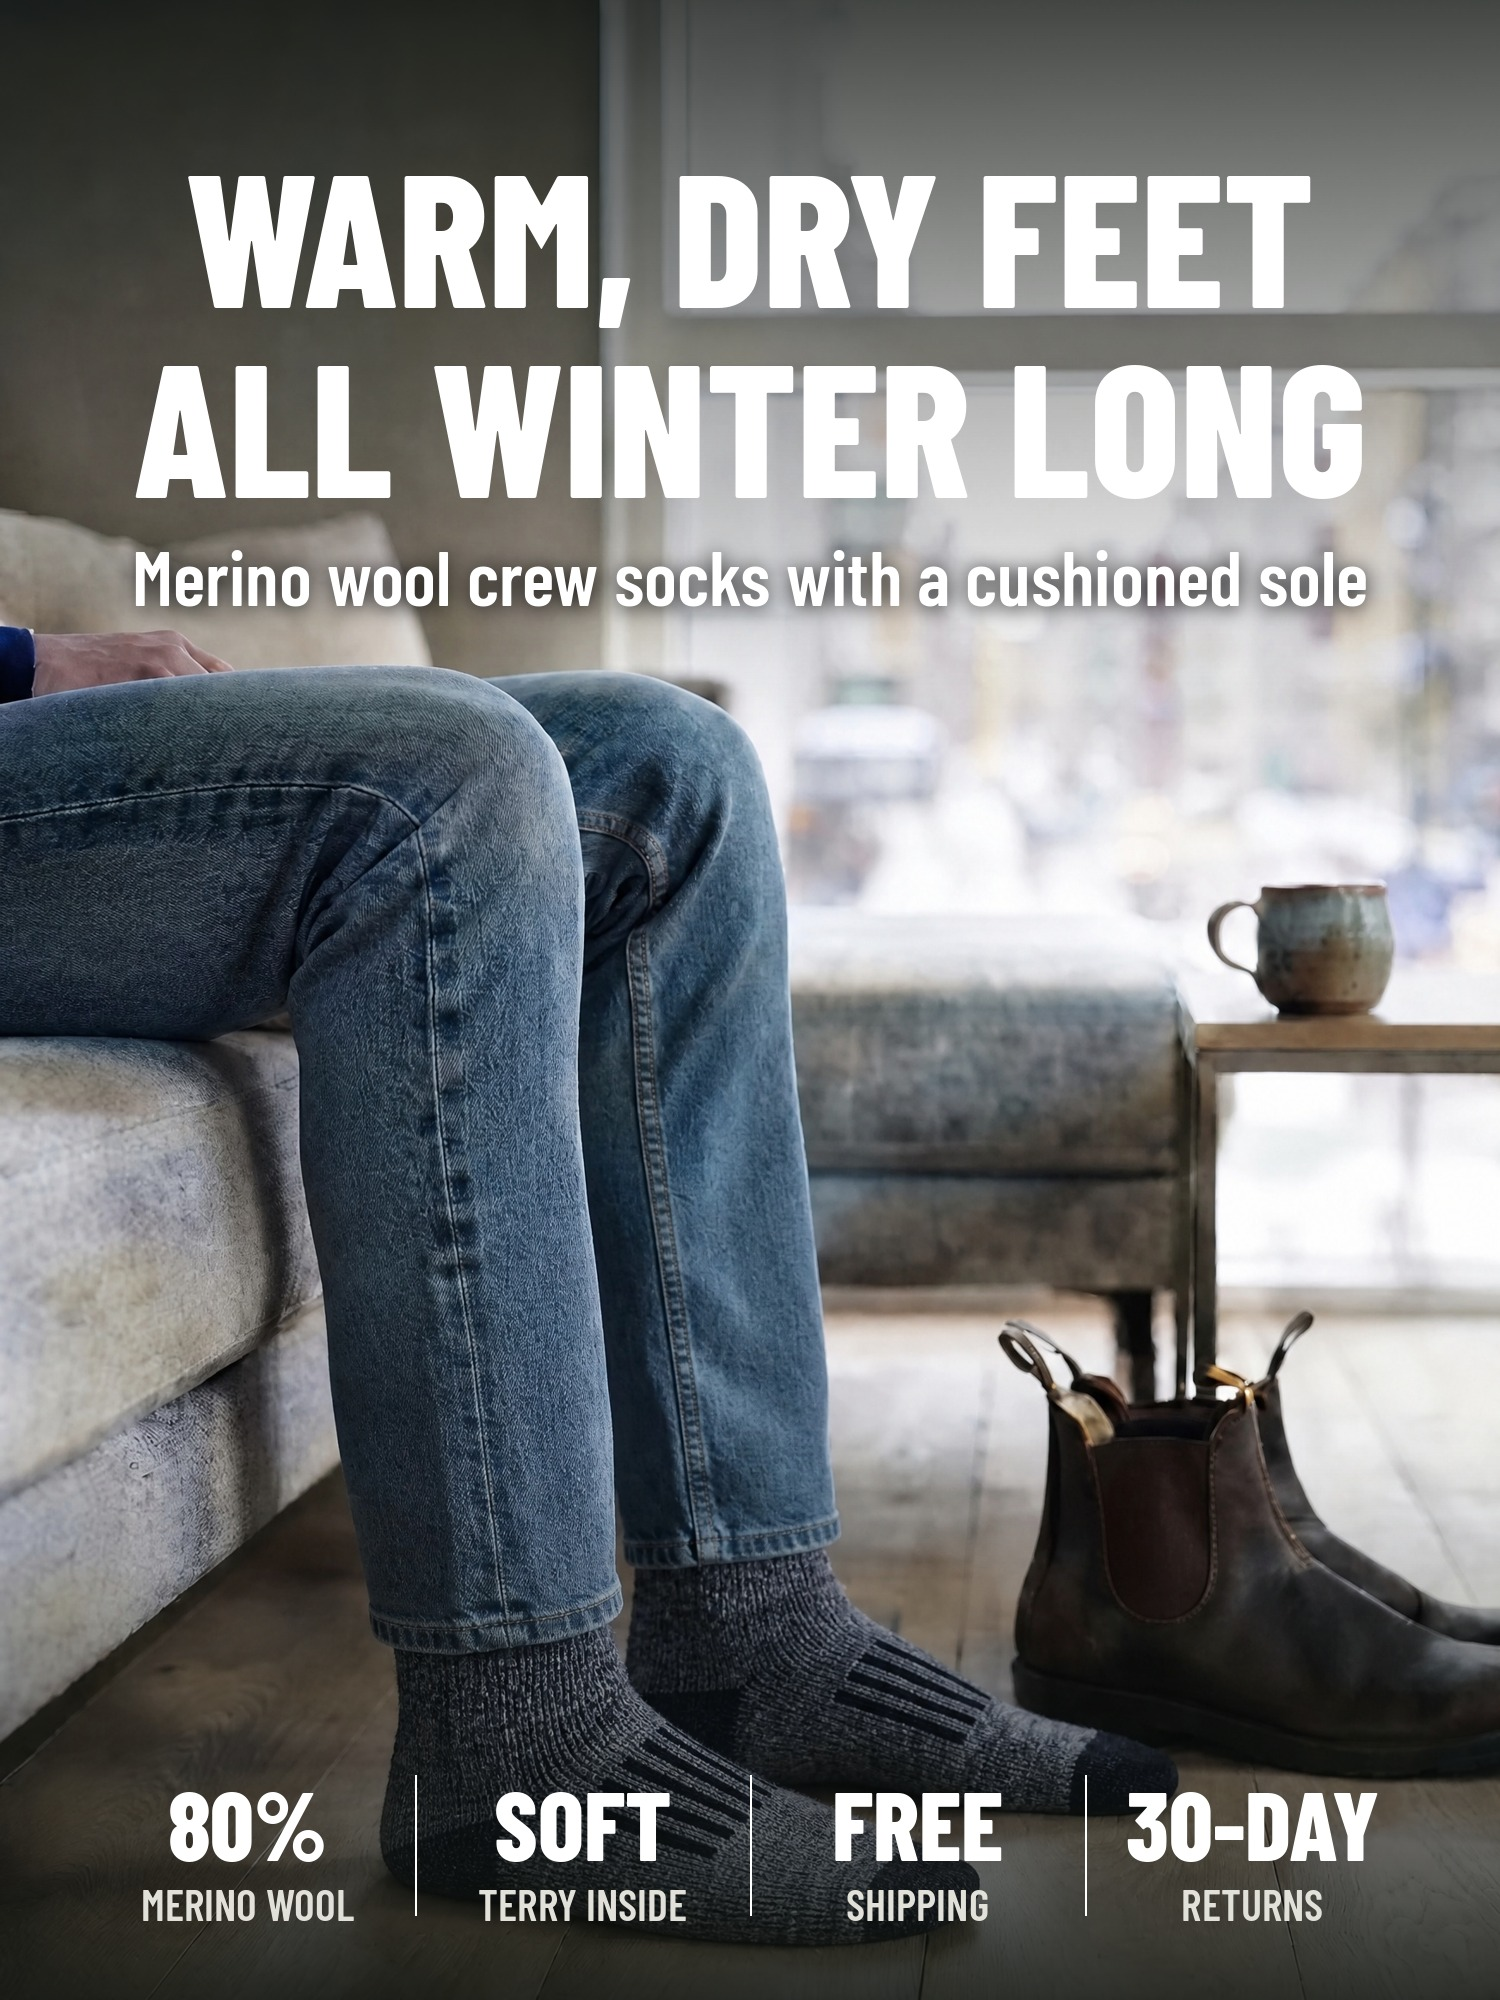
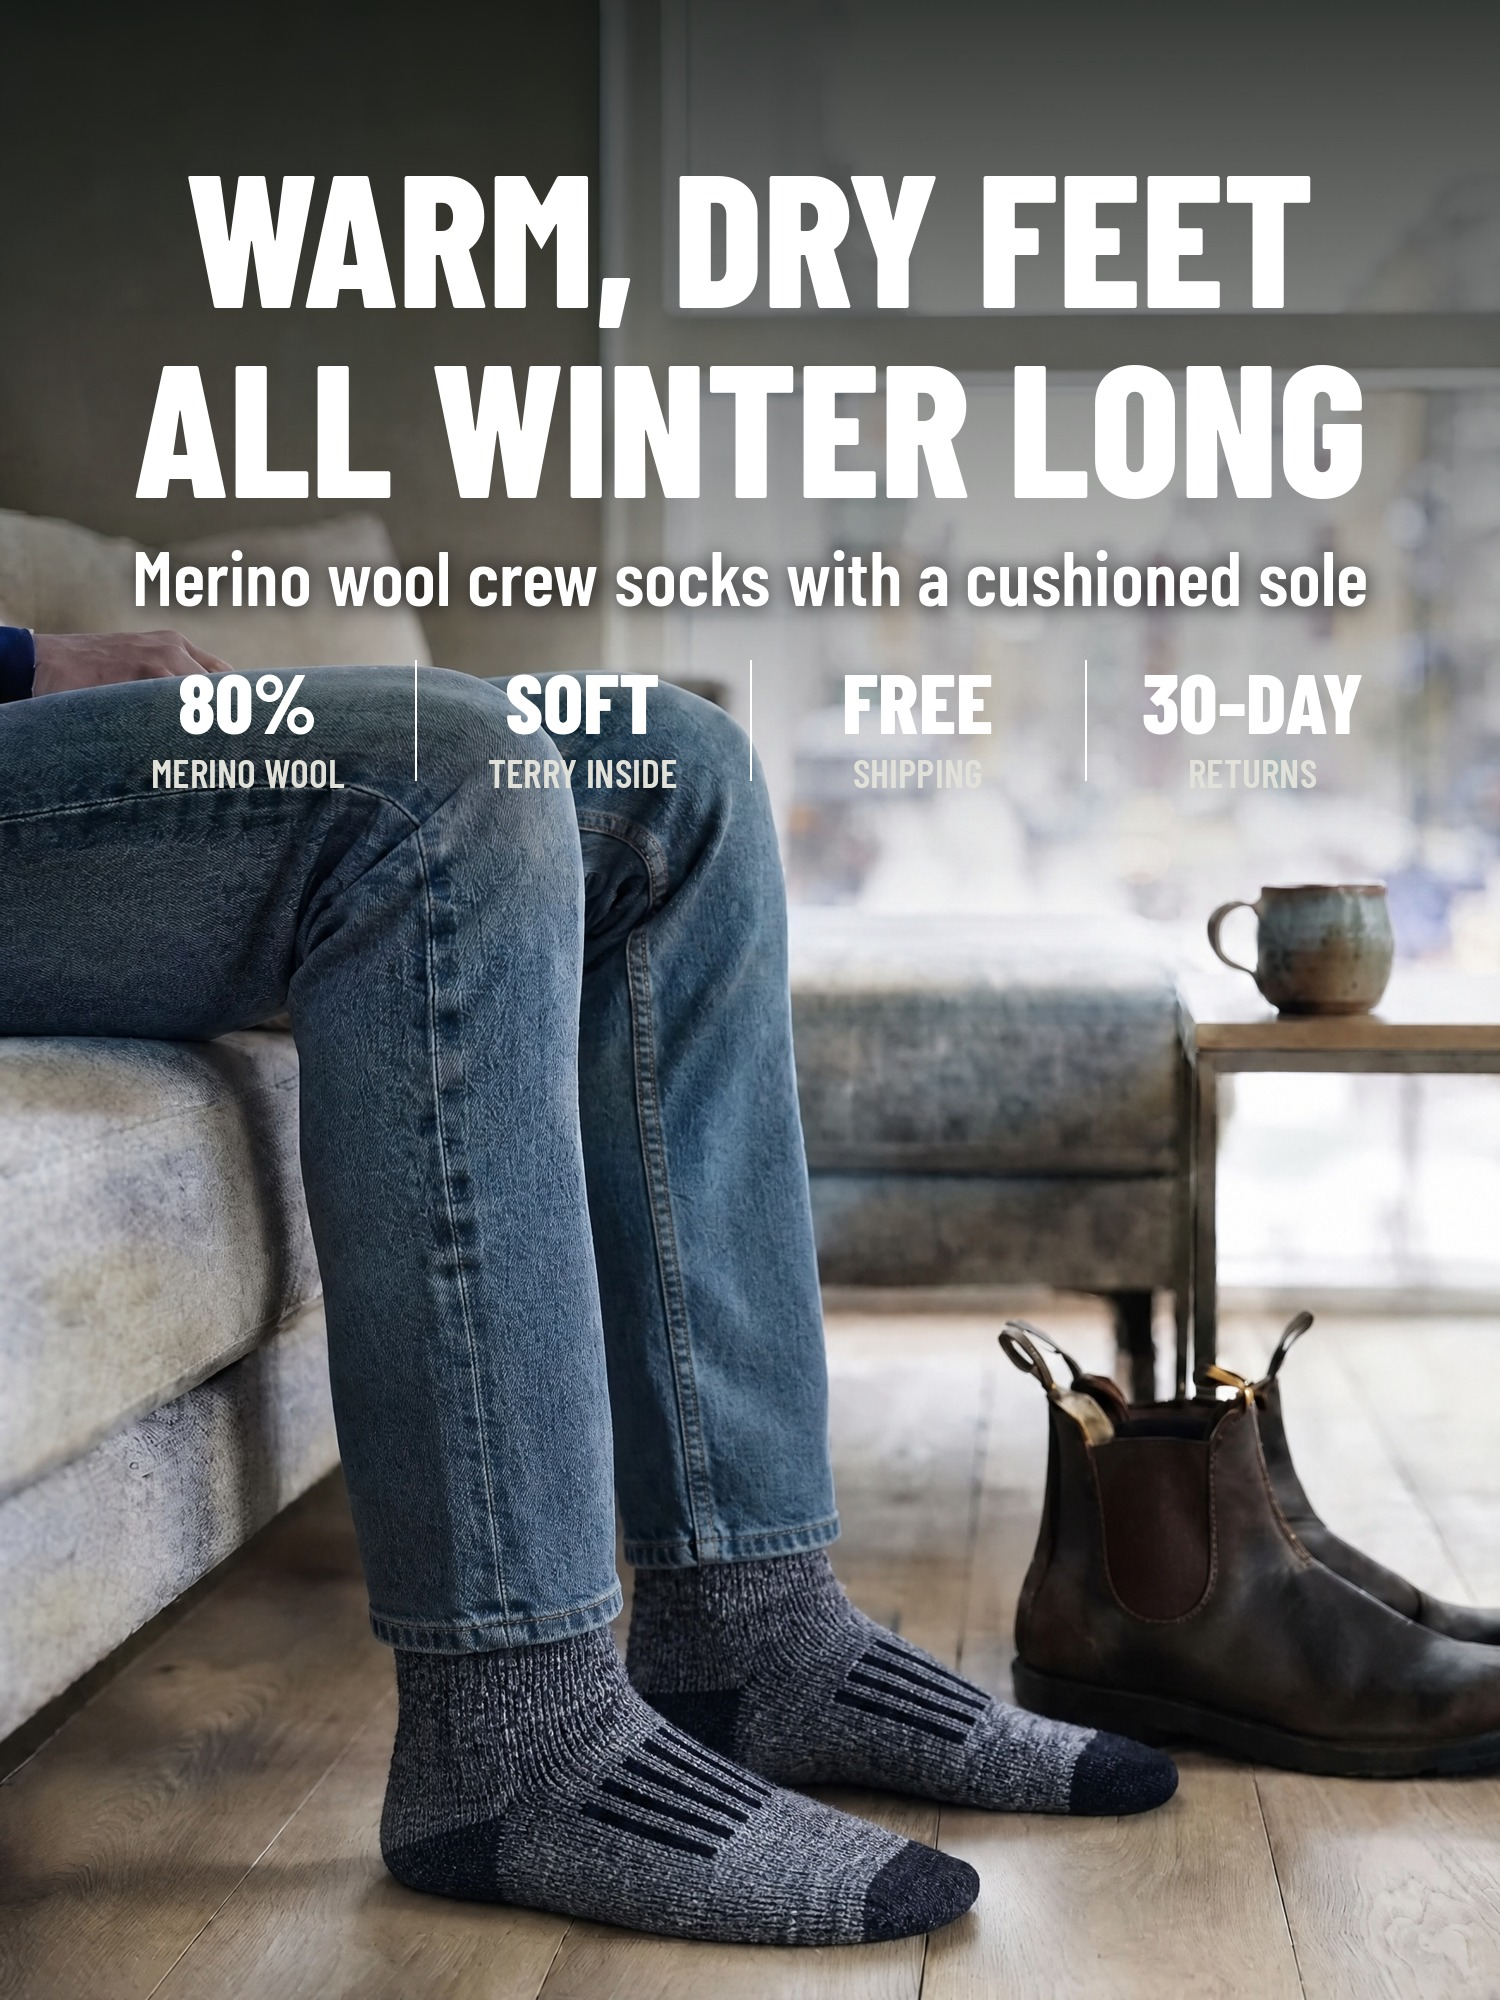
socks carousel: facts moved off the product
Claude-Session: https://claude.ai/code/session_017Ww7bRLYZM3uMxkStKbUri

Changed region(s): [[0.0, 0.062, 1.0, 0.434], [0.0, 0.775, 1.0, 1.0], [0.92, 0.775, 1.0, 0.837]]

diff --git a/socks/carousel/hero_top.py b/socks/carousel/hero_top.py
@@ -1,0 +1,35 @@
+import sys
+from PIL import Image, ImageDraw, ImageFont, ImageFilter
+src, out = sys.argv[1], sys.argv[2]
+im = Image.open(src).convert('RGB').resize((1500,2000))
+W,H = im.size
+# top gradient for headline legibility
+g = Image.new('L',(1,H))
+for y in range(H):
+    a = 0
+    if y < 1000: a = int(215*(1-y/1000)**1.2)
+    pass
+    g.putpixel((0,y),a)
+shade = Image.new('RGB',(W,H),(14,18,14))
+im = Image.composite(shade, im, g.resize((W,H)))
+d = ImageDraw.Draw(im)
+B='pins/BarlowCondensed-ExtraBold.ttf'; SB='pins/BarlowCondensed-SemiBold.ttf'; I='pins/Inter.ttf'
+f1=ImageFont.truetype(B,188); f2=ImageFont.truetype(SB,76); fc=ImageFont.truetype(SB,52)
+y=120
+for line in ['WARM, DRY FEET','ALL WINTER LONG']:
+    w=d.textlength(line,font=f1); d.text(((W-w)/2,y),line,font=f1,fill='white'); y+=190
+sub='Merino wool crew socks with a cushioned sole'
+w=d.textlength(sub,font=f2)
+sh=Image.new('L',(W,H),0); ImageDraw.Draw(sh).text(((W-w)/2,y+32),sub,font=f2,fill=230)
+sh=sh.filter(ImageFilter.GaussianBlur(10)); im.paste((0,0,0),(0,0),sh); d=ImageDraw.Draw(im)
+d.text(((W-w)/2,y+30),sub,font=f2,fill='white')
+# facts line directly under the subline, so nothing covers the product
+facts=[('80%','MERINO WOOL'),('SOFT','TERRY INSIDE'),('FREE','SHIPPING'),('30-DAY','RETURNS')]
+fb=ImageFont.truetype(B,84); fs=ImageFont.truetype(SB,40)
+colw=(W-160)/4; yb=y+150
+for i,(a,b2) in enumerate(facts):
+    cx=80+colw*i+colw/2
+    wa=d.textlength(a,font=fb); d.text((cx-wa/2,yb),a,font=fb,fill='white')
+    wb=d.textlength(b2,font=fs); d.text((cx-wb/2,yb+98),b2,font=fs,fill=(225,225,218))
+    if i: d.line([(80+colw*i,yb+10),(80+colw*i,yb+130)],fill=(255,255,255),width=2)
+im.save(out,quality=92)
